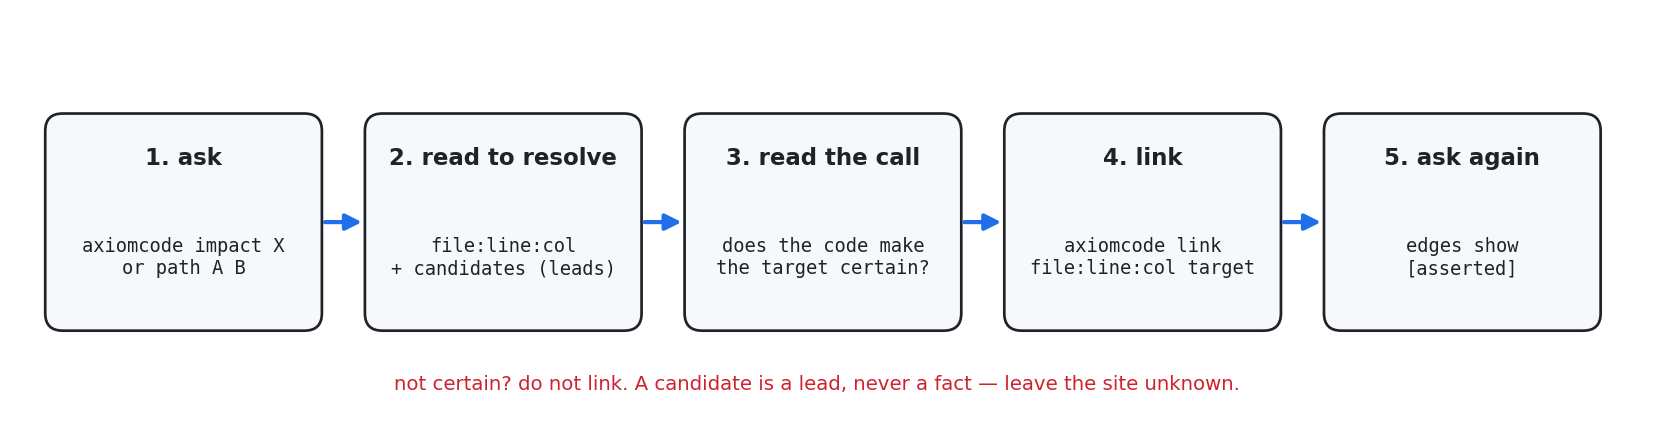
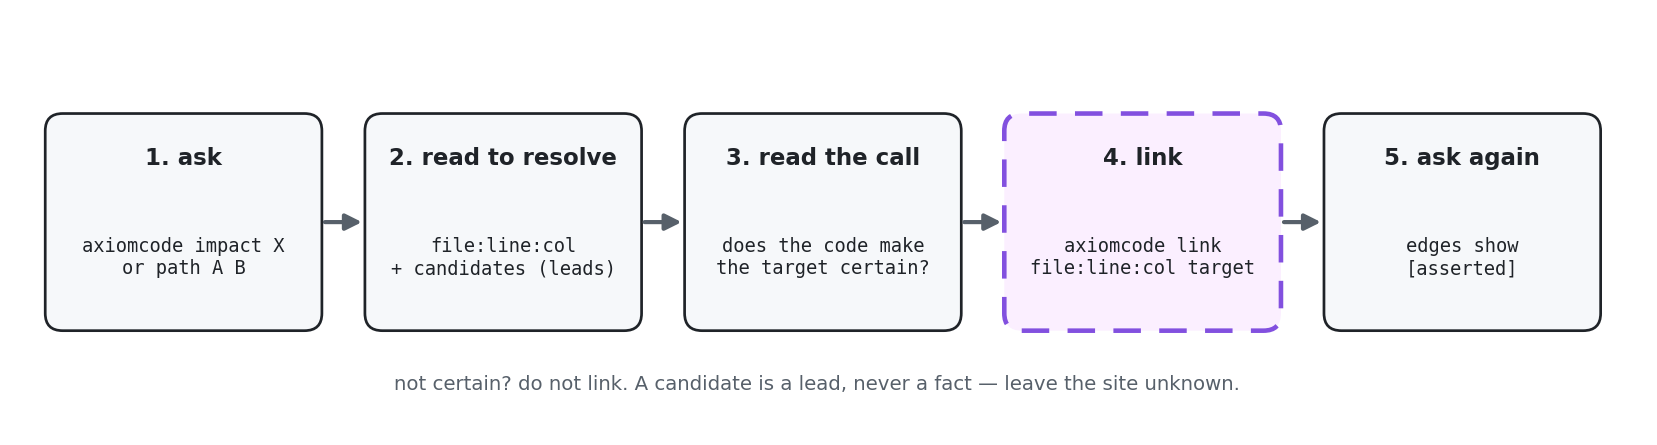
Match diagram colours to the edges they describe
The link step is drawn in the asserted style, the flow arrows are neutral,
and an unknown call is a dotted line ending in "?" rather than an arrow.

diff --git a/diagrams/make_diagrams.py b/diagrams/make_diagrams.py
@@ -90,8 +90,11 @@ def legend(ax, tiers=("resolved", "registered", "asserted", "unknown")):
     for i, t in enumerate(tiers):
         s = STYLE[t]
         x, y = -0.8 + (i % 2) * 5.0, -0.75 - (i // 2) * 0.45
-        ax.add_patch(FancyArrowPatch((x, y), (x + 0.7, y), arrowstyle="-|>", mutation_scale=12, color=s["color"],
+        head = "-" if t == "unknown" else "-|>"
+        ax.add_patch(FancyArrowPatch((x, y), (x + 0.7, y), arrowstyle=head, mutation_scale=12, color=s["color"],
                                      linestyle=s["ls"], lw=s["lw"]))
+        if t == "unknown":
+            ax.text(x + 0.66, y, "?", va="center", fontsize=12, weight="bold", color=s["color"])
         ax.text(x + 0.85, y, words[t], va="center", fontsize=9.5, color=INK)
 
 
@@ -146,15 +149,18 @@ def workflow(path):
              ("5. ask again", "edges show\n[asserted]")]
     for i, (h, b) in enumerate(steps):
         x = 0.3 + i * 2.75
+        hot = h == "4. link"
         ax.add_patch(FancyBboxPatch((x, 0.9), 2.3, 1.8, boxstyle="round,pad=0.04,rounding_size=0.15",
-                                    fc="#f6f8fa", ec=INK, lw=1.3))
+                                    fc="#fbefff" if hot else "#f6f8fa",
+                                    ec=STYLE["asserted"]["color"] if hot else INK, lw=2.2 if hot else 1.3,
+                                    linestyle=STYLE["asserted"]["ls"] if hot else "-"))
         ax.text(x + 1.15, 2.3, h, ha="center", fontsize=11, weight="bold", color=INK)
         ax.text(x + 1.15, 1.5, b, ha="center", va="center", fontsize=9, family="monospace", color=INK)
         if i < len(steps) - 1:
             ax.add_patch(FancyArrowPatch((x + 2.33, 1.8), (x + 2.72, 1.8), arrowstyle="-|>", mutation_scale=16,
-                                         color=STYLE["resolved"]["color"], lw=2))
+                                         color=MUTED, lw=2))
     ax.text(6.9, 0.35, "not certain? do not link. A candidate is a lead, never a fact — leave the site unknown.",
-            ha="center", fontsize=9.5, color=STYLE["unknown"]["color"])
+            ha="center", fontsize=9.5, color=MUTED)
     fig.savefig(path, bbox_inches="tight", facecolor=BG)
     plt.close(fig)
 

diff --git a/README.md b/README.md
@@ -49,7 +49,7 @@ Every row in an answer carries a label. An agent should read these labels before
 | `⇢` in `context` | one-of-a-set | One of several targets a dispatch can choose | Expect any of them at runtime |
 | `[must change · … a name match]` | — | Same member declared in a supertype; matched by name | Check it, it is usually right |
 | `[asserted]` | `- - →` dashed | An agent recorded it with `axiomcode link` | Trust it as much as you trust whoever linked it |
-| `to resolve:` + `candidates:` | `···?` dotted | A call through a value. The graph does not know the target. Candidates are *leads* | Read the call. Link it only if the code makes it certain |
+| `to resolve:` + `candidates:` | `···?` dotted red, no arrowhead | A call through a value. The graph does not know the target. Candidates are *leads* | Read the call. Link it only if the code makes it certain |
 | `bound: … lower bound` | — | The answer may miss things behind the unresolved calls | Do not treat the list as complete |
 | `verified: ✓ (N edge(s) looked up again)` | — | Every printed edge was re-checked against the graph | — |
 
@@ -120,9 +120,11 @@ links in scenario 6, which is why steps 3 and 4 and the `↺` appear.)
 
 ## The gap, and how an agent bridges it
 
-![before](diagrams/01-before-link.png)
-
 ## 4. The gap: impact sees nothing
+
+The red dotted lines are the two calls the graph cannot resolve. `notify_email` and `notify_sms` are greyed out because nothing the graph can see calls them.
+
+![before](diagrams/01-before-link.png)
 
 `notify_email` sends every email receipt, and `test_api` exercises it. But it is only ever called through
 `getattr(...)(message)`:
@@ -168,6 +170,8 @@ suspects (candidates). It does **not** guess. Full logs: [`02`](logs/02-path-bef
 
 ![workflow](diagrams/03-link-workflow.png)
 
+Step 4 is drawn in purple and dashed, the same style as the edges it creates in the diagram below.
+
 The agent reads the two sites:
 
 - `events.py:13` `fn(payload)` iterates `self._subs[topic]`. The only `subscribe` in the repo is
@@ -189,6 +193,8 @@ linked shop/notify.py:16:5 `handler` → notify_sms [asserted]; … — applied 
 No rebuild: each link is applied in a few milliseconds.
 
 ![after](diagrams/02-after-link.png)
+
+The red dotted gaps are gone: each is now a purple dashed `[asserted]` edge.
 
 ## 7. Ask again: the same questions now have answers
 
